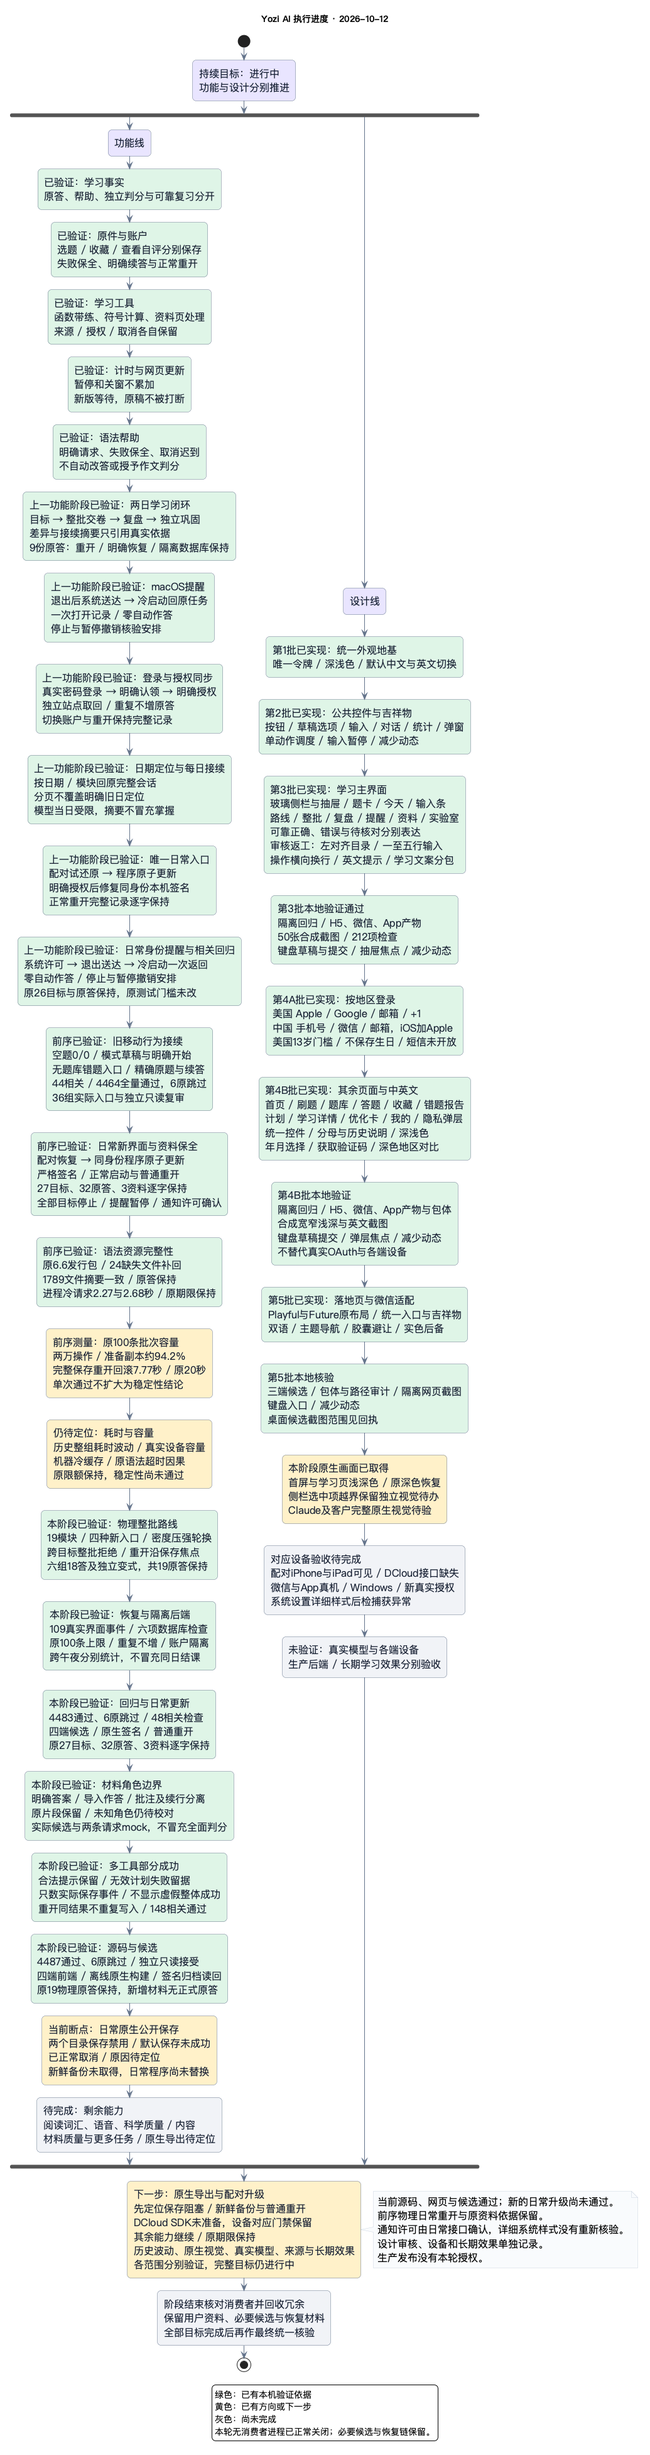
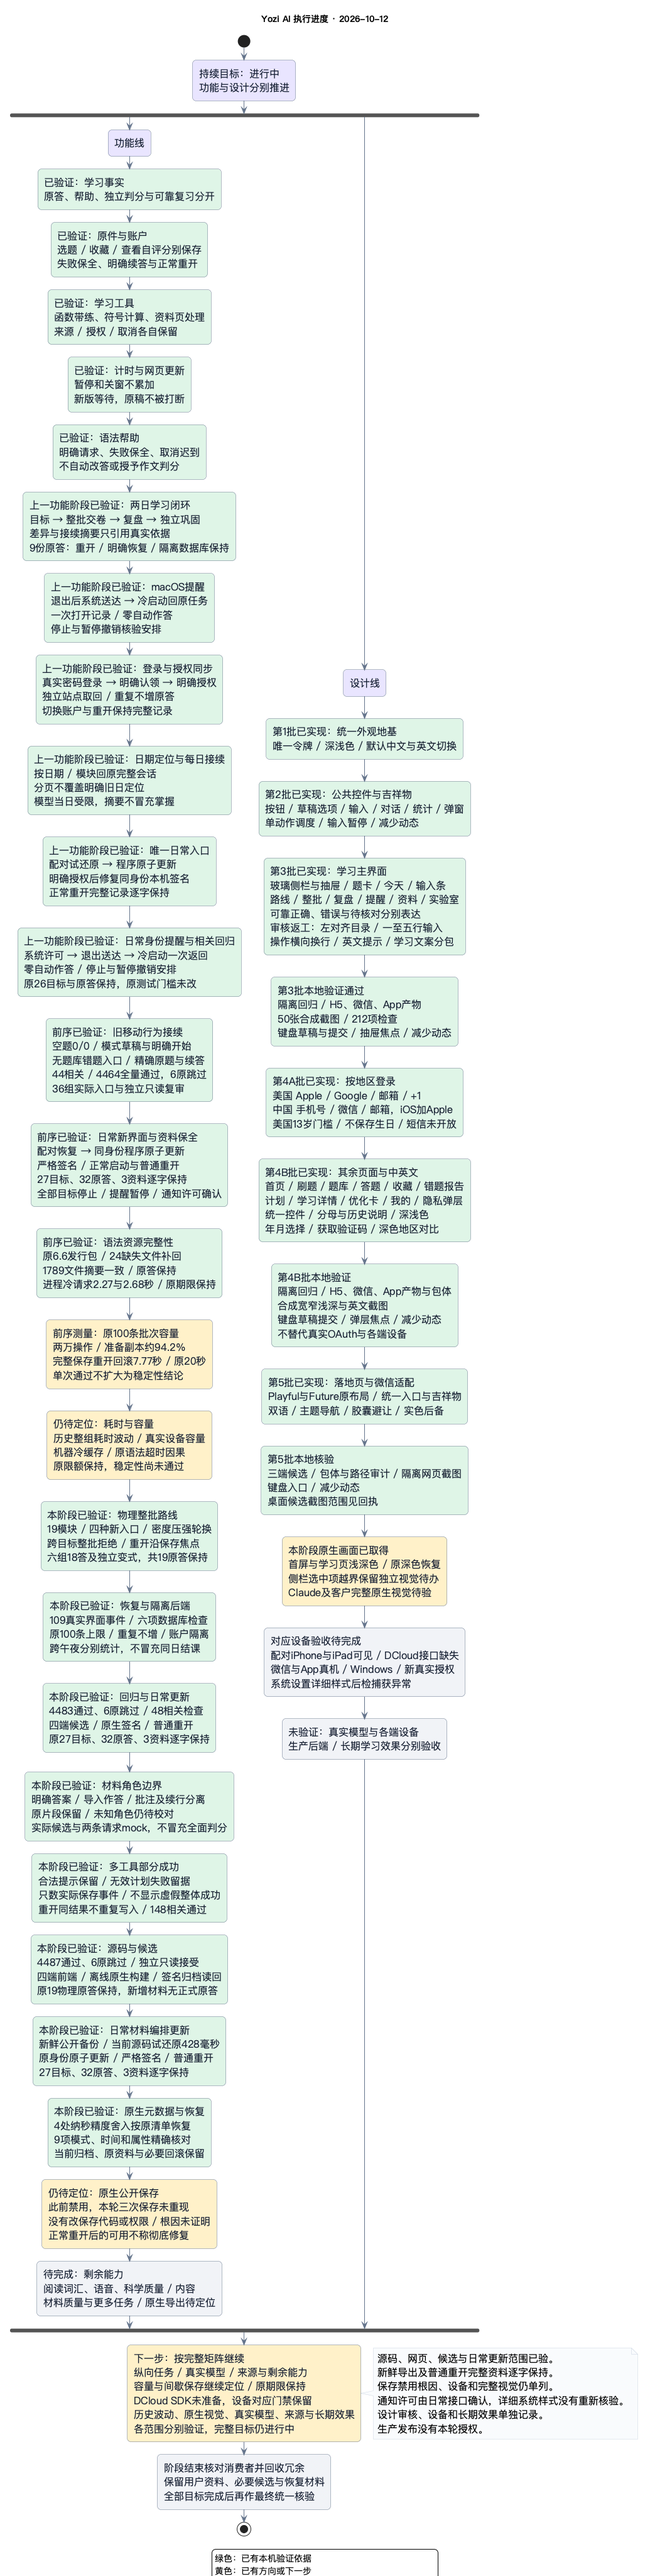
docs: record fresh native backup and accepted daily update
Verify public saves, paired restore, atomic same-identity update and exact normal-reopen data.
Restore rounded nanosecond metadata from the immutable manifest and preserve lossless receipt values.

Keep the earlier intermittent save cause unproven and the complete delivery goal active.

Changed region(s): [[0.0, 0.0, 0.9585, 0.9997], [0.4019, 0.2187, 0.742, 0.6873]]

diff --git a/docs/13-DEVELOPMENT-PLAN.md b/docs/13-DEVELOPMENT-PLAN.md
@@ -42,19 +42,19 @@
 4. 提醒至少分别记录设置成功、到期触发、平台接纳、真实送达与点击返回；不把页内提示或API返回冒充关闭应用后的系统通知。平台申请/权限/设备实际不可用只阻塞对应验收，其余工作继续。
 5. 同步受影响的01/03/04/05/06/07合同、12变更、本计划与既有PlantUML进度图；每个独立阶段用业务语言汇报结果、依据和剩余项。完成矩阵保留未验证项，完整目标未满足时继续进行，不以测试数量或构建全绿替代闭环。
 
-## 最新阶段的费曼汇报：材料角色、部分成功与原生导出断点
+## 最新阶段的费曼汇报：新鲜原生备份与日常更新
 
-材料不能把末尾的答案当成要作答的题干。一条合成资料复现了这个问题：没有“题干”标签时，答案、纸面作答和批注一起进入候选题干。现在只分离已识别的角色区域，原资料完整保留，未知内容仍需校对。网页实际导入、明确进入练习后仍显示待核对，没有把纸面作答变成正式成绩；两条实际请求mock也确认独立答案字段没有发给模型。
+上一阶段材料角色分离和部分成功回执已在源码、网页、4487项回归和四端候选中通过。日常程序当时卡在公开保存，尚未更新。这次正常重开后，同一目录和相同文件名编辑方式均能保存；取得新鲜备份、试还原、核验回滚后，已沿唯一日常入口和原身份原子更新程序。
 
-另一处断点是一轮先保存提示，后续计划失败。原来只看见后一个错误，缺少失败收据；现在合法提示保留，错误说明只根据实际保存事件给出部分成功，拒绝模型提前宣称全部成功。普通重开取回同一结果不重复保存提示、计划或收据，原答与停止保持。
+现在更新后和普通退出重开后也能公开保存，三份新鲜导出逐字一致：27个目标、32份原答、3份资料及全部题目、计划、复习保持，目标全部停止，提醒仍暂停，没有新增作答或合并。当前源码的空状态试还原在原2秒期限内约428毫秒通过，只出现既定保守元数据转换；同账户重放零新增，完整状态相同。
 
-相关148项、全量4487项回归通过，6项原跳过；独立只读复核接受修复，四端前端和离线原生候选通过。网页公开导出核对19份前序物理原答及事件/计划/复习保持；新增一份合成资料和一题，零正式原答。前序19模块、六物理组和日常27目标/32原答/3资料的已验依据继续保留。
+当前签名程序、固定归档和配对恢复材料已核验，临时导出在确认与保留原资料逐字相同后回收。本轮打开的日常程序正常退出，恢复原关闭状态。收尾还发现4处纳秒时间被回执的JavaScript数字解析舍入；程序与资料内容不变，已按原清单恢复并核对9项元数据，回执改为无损字符串保存纳秒数。
 
-新的日常更新还没有完成：原生公开保存窗口在两个已知目录都禁用保存，默认保存也未成功，已正常取消。没有取得本轮新鲜资料备份，就没有替换日常程序；当前物理阶段已验入口、原资料和恢复链保持，新签名候选留为待验归档。该保存阻塞原因仍待定位，不能把源码和构建通过算成新的原生资料验收。
+此前“保存”禁用的原因仍未证明，本轮三次保存均未重现，没有改保存源码、权限或依赖；不能把正常重开后的可用称为彻底修复。日常更新及资料保全这次已经通过，间歇保存现象保留待定位，前序历史记录不回写。本次没有逻辑改动，不重复已经通过的全量回归和四端构建。
 
-客户确认DCloud SDK尚未准备，微信/App对应真机门禁保留。下一步先定位原生导出、补配对备份和普通重开，再沿既有矩阵推进可独立执行的能力；Windows、真实模型、来源、完整视觉、生产与长期效果继续分别收证。前序语法资源已补全，耗时波动还没有因果结论，原期限不放宽，完整目标仍进行中。
+完整目标仍进行中。下一步按下方矩阵核对其余纵向任务、真实模型和来源质量，并继续定位可复现的容量/保存问题；完整原生视觉独立验收。DCloud SDK尚未准备，Windows、微信/App对应设备、公共题源与受保护生产仍各自保留门禁，长期效果不由本机更新证明。
 
-依据见[本阶段变更](12-CHANGELOG.md#2026-10-12材料角色与部分成功回执原生日常升级待完成)、[现有回执](../tmp/stage1-mobile-20261011/verification.md)、[当前候选及待验映射](08C-SCRIPTS-REFERENCE.md#当前候选与本机资源)和[设计规则](07-STYLING-SYSTEM.md)。前序临时回放的环境加载与私有断言日志失误已经纠正，历史记录保持，不追认无读取。
+依据见[本阶段变更](12-CHANGELOG.md#2026-10-12新鲜原生备份材料编排日常更新与普通重开)、[现有回执](../tmp/stage1-mobile-20261011/verification.md)、[当前产物与恢复映射](08C-SCRIPTS-REFERENCE.md#当前候选与本机资源)及[设计规则](07-STYLING-SYSTEM.md)。此前临时回放环境加载和私有断言日志失误已经纠正并记录，不能追认全程无读取。
 
 ![当前PlantUML进度图](diagrams/13-progress.png)
 

diff --git a/docs/12-CHANGELOG.md b/docs/12-CHANGELOG.md
@@ -1,5 +1,17 @@
 # 重要变更
 
+## 2026-10-12：新鲜原生备份、材料编排日常更新与普通重开
+
+接续上条原生保存断点，正常重开原程序后，同一阶段目录的保存/New Folder已启用；沿相同AX文件名编辑后保存成功。新鲜公开导出与此前原资料逐字一致。当前源码直接Node模块试还原，不使用Vite或环境加载：空状态444事件在原2000毫秒期限内427.97毫秒通过，只73项既定保守元数据转换；同账户0新增/444已有，完整状态一致。题目、原答、资料、计划、复习及停止不变。
+
+核验当前签名候选与上一物理程序完整回滚归档后，沿原身份、资料UUID、版本2.2.0、图标、其他程序文件及原纳秒时间，只原子替换可执行文件；严格签名通过。正常启动、公开保存、普通退出重开和再次公开保存均通过；三份新鲜文件逐字相同：revision444、1,166,771字节、27目标、32原答、3资料，全部目标仍停止，提醒仍暂停，未新增作答或合并。原生[保存可用画面](../tmp/stage1-mobile-20261011/native-shots/save-ready.jpg)及逐项依据见[现有回执](../tmp/stage1-mobile-20261011/verification.md)。本次没有逻辑改动，沿用已验4487项/6原跳过、148相关和四端候选结果，没有重复全量构建。
+
[1 lines of base64/hex data omitted]
+
+精确元数据后检另发现回执经过JavaScript数字解析，4处纳秒时间舍入。程序内容与学习资料摘要保持；已对照不可变原清单恢复，9项模式、纳秒时间与扩展属性逐项通过，严格签名及程序摘要保持。候选回执以十进制字符串保存纳秒数，恢复须显式解析整数，不把旧文件内容摘要当成新候选摘要。本轮移除被受保护物理回滚覆盖的旧固定归档和四份逐字重复导出，共251,264,256字节逻辑文件，观察磁盘可用增加4,603,904字节；不计为空间等量释放或RAM改善。
+
+此前保存禁用的原因尚未证明，本轮三次公开保存均未重现；没有修改保存源码、权限、系统设置或依赖，不把正常重开后的恢复称为彻底修复。Windows、DCloud SDK缺失的对应设备、真实模型语义、公共题源、完整视觉、历史容量波动及受保护生产继续分别待验，整体目标仍进行中。上条“日常升级待完成”是当时断点，历史依据不回写。
+
 ## 2026-10-12：材料角色与部分成功回执（原生日常升级待完成）
 
 真实红测复现同轮合法提示已保存、后续计划引用不存在题目被拒绝，却缺失败收据且只显示后一个错误。计划业务校验现纳入失败收据；界面只按本请求实际保存的提示/策略/评估/计划事件说明部分成功，不采用模型事先宣称的整体成功，也不把进度读取或演示算为已保存学习操作。普通重开取回同一结果时，提示、成功/失败收据与完整导出不增加；恢复失败仍明确显示。权限、三工具预算、五秒期限、模型20项计划及原作答规则保持。

diff --git a/docs/08C-SCRIPTS-REFERENCE.md b/docs/08C-SCRIPTS-REFERENCE.md
@@ -6,7 +6,9 @@
 
 当前候选已接续至 `tmp/stage1-mobile-20261011/`：前端 `dist/build/{h5,mp-weixin,app,desktop}`、后端 `backend/`、共享依赖的隔离构建源码 `build-source/`；当前签名程序归档固定为 `desktop-candidate.zip`，不保留可启动候选App。当前程序摘要及归档清单见该目录 `native-candidate-receipt.json`，原日常资料的逐字前后/重开核验和配对试还原见 `verification.json`。上一阶段成功程序在 `tmp/visual-build-20261001/resume-rubric-evidence-20261004/yozi-before/stage1-mobile-20261011/native/Yozi AI.stage1.app.zip`，与该目录原资料导出配对；更早原程序归档保留为必要恢复基线。以下旧候选及运行时只按仍有效的回退用途保留，不作为当前产物。
 
-随后材料/编排增量已更新上述四端前端目录，后端共享合同没有变化；签名原生候选暂存 `desktop-candidate.next.zip`，全部文件/权限读回通过。日常原生导出在两个已知目录均显示保存禁用，已正常取消；尚无本轮新鲜资料导出，因此未替换日常程序，也未把 `.next.zip` 提升为当前原生已验归档。当前 `desktop-candidate.zip` 和日常入口仍对应物理阶段；该阶段成功程序另归档至同恢复目录 `Yozi AI.physics.app.zip`，供后续升级的配对回滚。客户确认DCloud SDK尚未准备，对应设备门禁保持。
+随后材料/编排增量已更新上述四端前端目录，后端共享合同没有变化。正常重开后公开保存可用，取得新鲜备份并完成当前源码试还原、同身份原子更新、更新后与普通重开后导出逐字对照；签名归档由 `desktop-candidate.next.zip` 提升为固定 `desktop-candidate.zip`，全部文件/权限读回通过。物理阶段成功程序保留在同恢复目录 `Yozi AI.physics.app.zip`，与 `learning-records.before.json` 配对；所有新鲜导出确认与此完整资料逐字相同后，仅回收重复副本，观察时间和原路径留于机器回执。此前保存禁用在本轮三次公开保存中未重现，根因仍未证明。客户确认DCloud SDK尚未准备，对应设备门禁保持。
+
+原生恢复的纳秒时间不得经JavaScript Number中转：本轮精确后检发现4处回执数值舍入，已对照未改动的 `backup-receipt.json` 原始sourceManifest恢复，9项路径的模式、纳秒时间及扩展属性核对通过。候选回执的mtimeNs改为十进制字符串，恢复时显式 `int(mtimeNs)`，或直接由Python读取原sourceManifest；原元数据只用于模式/时间/属性，当前文件内容按候选manifest摘要校验，不用旧程序摘要代替新程序。
 
 2026-10-12 的App连接器 `--build-only` 预检确认本机Apple SDK和配对iPhone/iPad可见，但DCloud Android类路径及iOS `DCUniModule.h` 未配置，未装配出插件。只阻塞对应原生设备验收；不绕过历史下载限制、不升级/恢复/重新配对设备。微信预算脚本按cwd下的 `dist/build/mp-weixin` 检查，不接受 `UNI_OUTPUT_DIR`；隔离候选须在上述阶段目录运行。临时Vite回放必须显式 `configFile:false`、`envDir:false`、`optimizeDeps:{noDiscovery:true,include:[]}`，避免默认环境加载和全仓入口扫描。
 

diff --git a/docs/06-FRONTEND-REFERENCE.md b/docs/06-FRONTEND-REFERENCE.md
@@ -20,7 +20,7 @@
 
 私人材料候选只分离已识别的题干/答案/纸面作答/批注标签。没有题干标签时，题干回退不包含明确答案、作答或批注区域及其续行；这些区域中的选项也不进入题目选项。原片段完整保留，未知角色仍由用户校对；独立参考、导入作答、教师批注和validation不进入普通教学请求的题目字段。量表与同目标当日消息仍沿原教学合同，不能因此宣称任意材料均自动分离或可靠判分。
 
-多工具后续失败会说明本请求已保存的操作数量并显示真实错误；失败模型回复不冒充完整成功。保存的提示继续计入帮助，普通重开取回同一结果不重复保存。网页材料实操与请求mock、源码单测和日常原生资料核验分别成立，当前原生公开保存按钮受阻，日常升级待新鲜备份，现程序保持。
+多工具后续失败会说明本请求已保存的操作数量并显示真实错误；失败模型回复不冒充完整成功。保存的提示继续计入帮助，普通重开取回同一结果不重复保存。网页材料实操与请求mock、源码单测和日常原生资料核验分别成立；日常入口已沿原身份更新，三次新鲜公开保存及普通重开后完整记录逐字一致。此前原生保存禁用经正常重开后未重现，原因仍未证明，不称彻底修复。
 
 ### 入口
 
